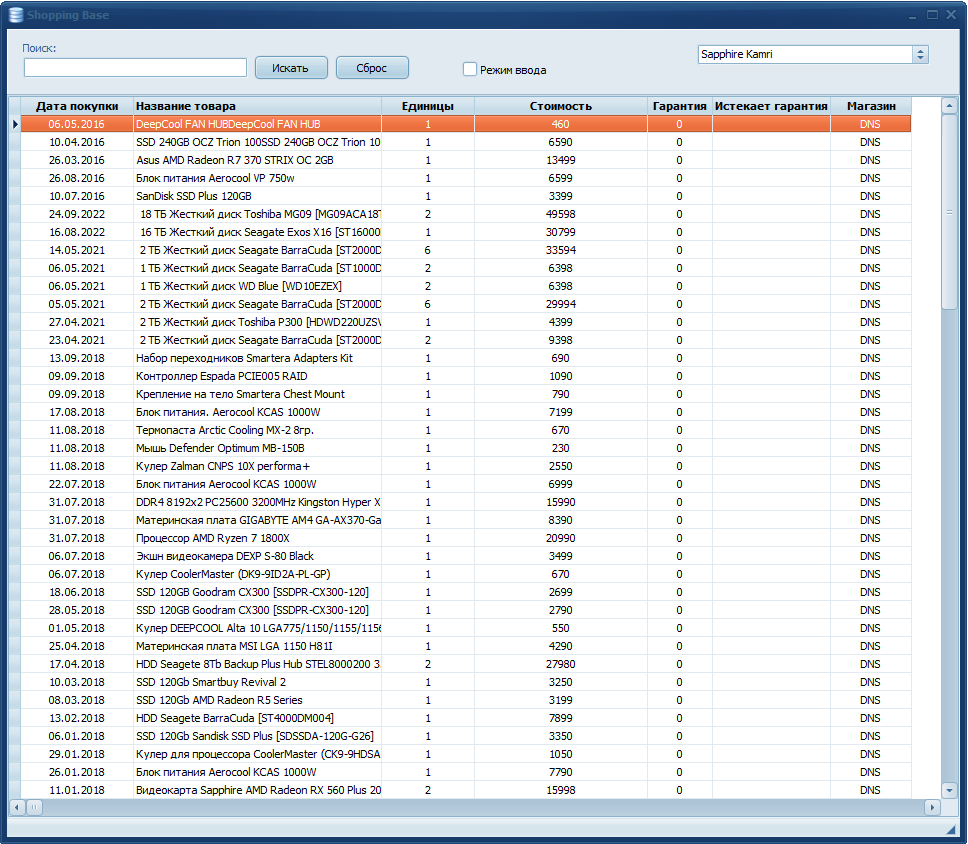
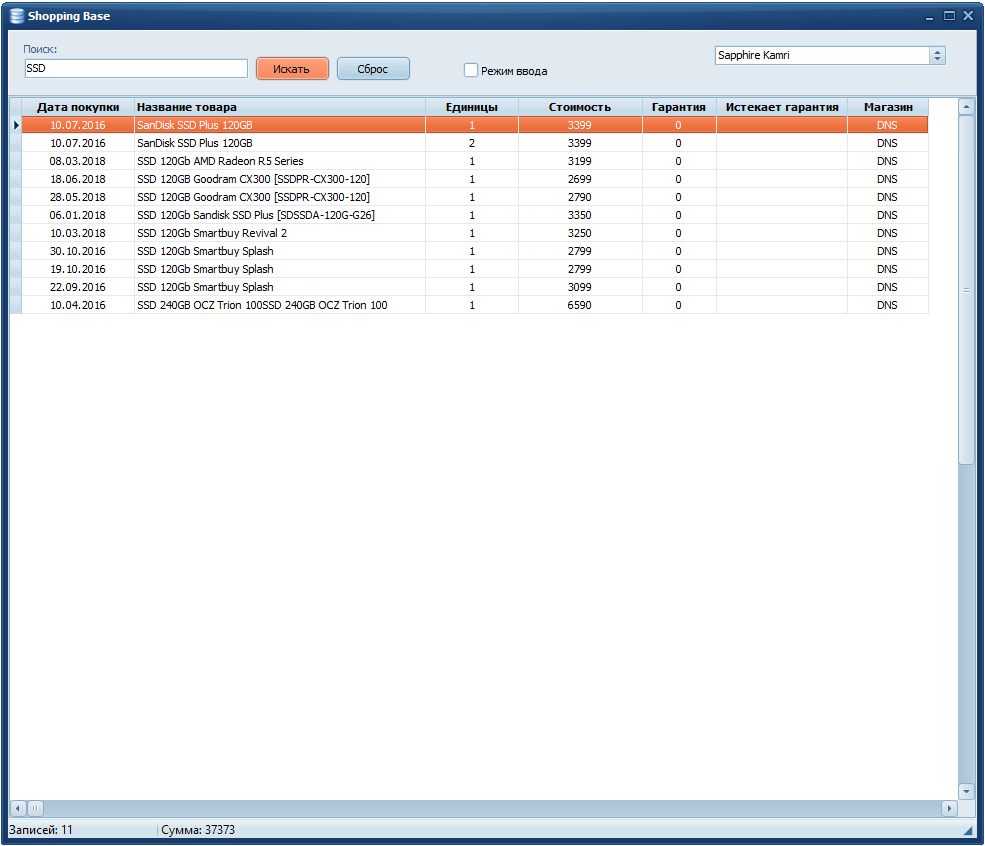
01.01.2023

diff --git a/README.md b/README.md
@@ -1,4 +1,4 @@
-##Demo Shopping Base
+## Demo Shopping Base
 
 [RU]
 Это демо использования компонентов DELPHI ADO ACCESS
@@ -7,6 +7,7 @@
 This is a Demo of using DELPHI ADO ACCESS components
 
 ![Screenshot](https://github.com/superbot-coder/ShoppingBase/blob/main/image/ScreenShot-01.PNG "")
+![Screenshot](https://github.com/superbot-coder/ShoppingBase/blob/main/image/ScreenShot-02.PNG "")
 
 **Требования для компиляции и зависимости:**
 - RAD Studio Delphi 10.4 и выше
